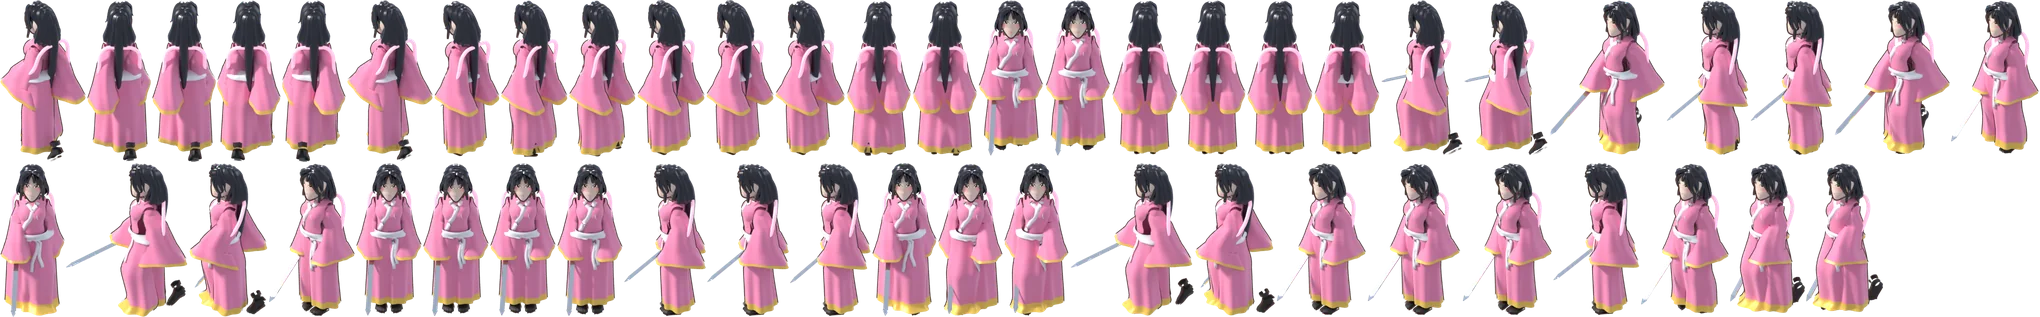
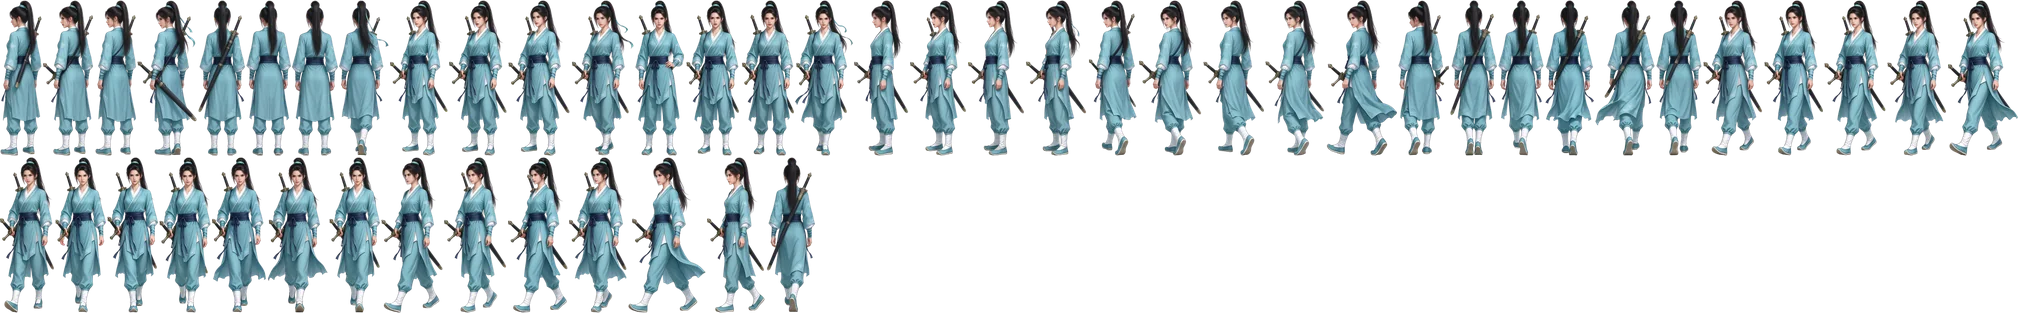
AI精绘: NPC师姐写实化(50帧 SD 包)

diff --git a/test/npc_sister_check.py b/test/npc_sister_check.py
@@ -1,0 +1,66 @@
+# -*- coding: utf-8 -*-
+# AI 精绘精灵链自测（npc_sister）：建角进游戏，强制 spr=npc_sister，遍历 8 方向×idle/walk，截图。
+import asyncio, os, sys, json
+from playwright.async_api import async_playwright
+HERE = os.path.dirname(os.path.abspath(__file__))
+ROOT = os.path.abspath(os.path.join(HERE, '..', 'www'))
+URL = 'file://' + ROOT + '/index.html'
+OUT = os.path.join(HERE, 'shots_sister') + '/'; os.makedirs(OUT, exist_ok=True)
+CHROME = os.environ.get('CHROME', '/opt/vm/preinstall/ms-playwright/chromium-1169/chrome-linux/chrome')
+SID = 'npc_sister'
+
+CLICK_JS = """()=>{
+  const ws=[...document.querySelectorAll('#modals .mwrap')];
+  if(!ws.length) return false;
+  const w=ws[ws.length-1];
+  const opt=w.querySelector('.opts .opt');
+  if(opt){opt.click(); return true;}
+  return false;
+}"""
+
+async def main():
+    errs = []
+    async with async_playwright() as p:
+        b = await p.chromium.launch(executable_path=CHROME, args=['--allow-file-access-from-files', '--autoplay-policy=no-user-gesture-required'])
+        ctx = await b.new_context(viewport={'width': 390, 'height': 844}, device_scale_factor=2, is_mobile=True, has_touch=True)
+        pg = await ctx.new_page()
+        pg.on('pageerror', lambda e: errs.append('PAGEERR ' + str(e)))
+        pg.on('console', lambda m: errs.append(m.text) if m.type == 'error' else None)
+
+        async def pump(n=10, every=600):
+            for _ in range(n):
+                clicked = await pg.evaluate(CLICK_JS)
+                if clicked: await pg.wait_for_timeout(every)
+                else: await pg.wait_for_timeout(250)
+
+        await pg.goto(URL); await pg.wait_for_timeout(2500)
+        await pg.click('text=开始新人生'); await pg.wait_for_timeout(400)
+        await pg.click('#nx'); await pg.wait_for_timeout(300)
+        for k in range(3): await pg.locator('.talb').nth(k).click()
+        await pg.click('#nx'); await pg.wait_for_timeout(300)
+        await pg.click('#rs'); await pg.click('#nx'); await pg.wait_for_timeout(300)
+        await pg.click('#nx'); await pg.wait_for_timeout(3000)
+        await pump(10, 350)
+        await pg.wait_for_timeout(1200)
+
+        await pg.evaluate(f"()=>{{ if(R.player){{ R.player.spr='{SID}'; R.player.anim='idle'; R.player.dir='S'; R.player.at=0; }} }}")
+        await pg.wait_for_timeout(400)
+        g = await pg.evaluate(f"()=>{{return {{ spr:R.player.spr, fw:ASSETS.sprites.{SID}.fw, fh:ASSETS.sprites.{SID}.fh }};}}")
+        print('forced:', g)
+
+        dirs = ['S','SW','W','NW','N','NE','E','SE']
+        anims = ['idle','walk']
+        for d in dirs:
+            for an in anims:
+                await pg.evaluate(f"()=>{{ if(R.player){{ R.player.dir='{d}'; R.player.anim='{an}'; R.player.at=0; }} }}")
+                await pg.wait_for_timeout(250)
+                await pg.screenshot(path=OUT + f'chk_{an}_{d}.png')
+
+        await b.close()
+
+    print('--- errors ---')
+    for e in errs: print('ERR:', e[:200])
+    print('total errors:', len(errs))
+
+if __name__ == '__main__':
+    asyncio.run(main())
